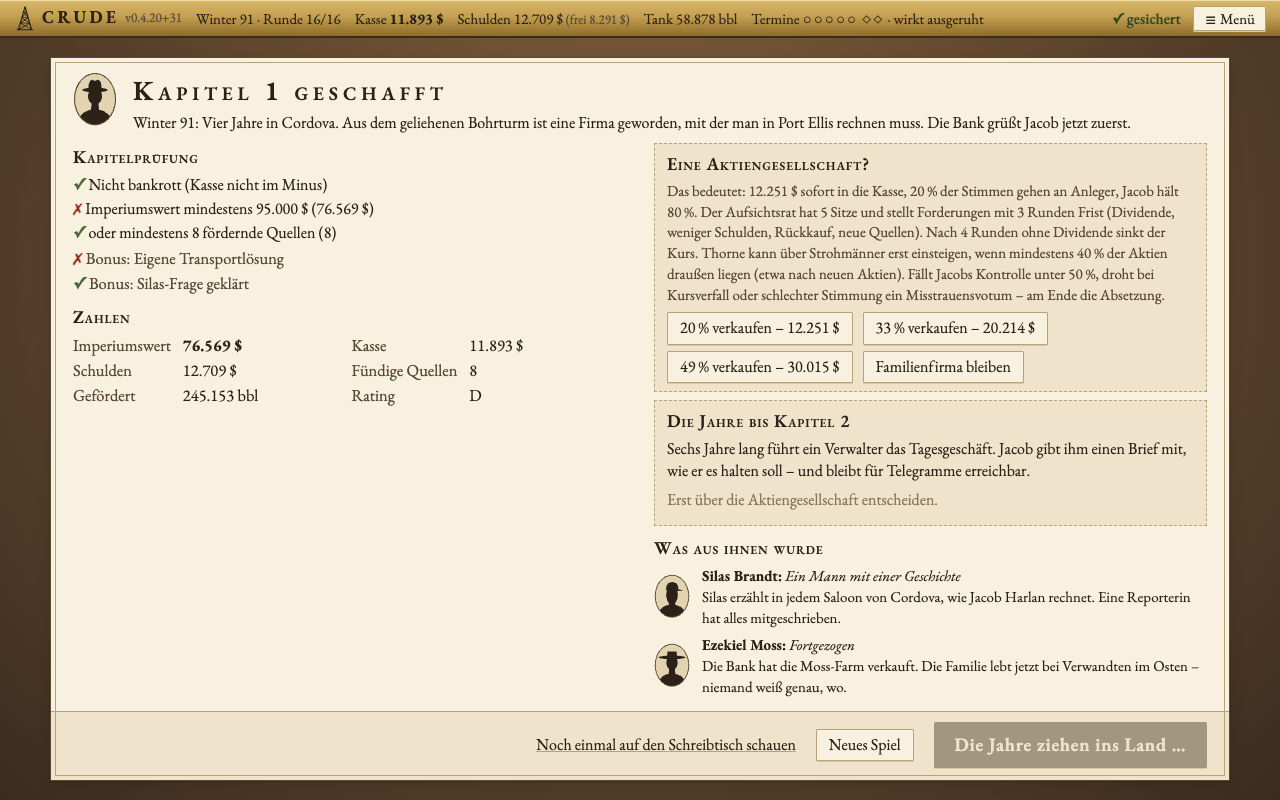
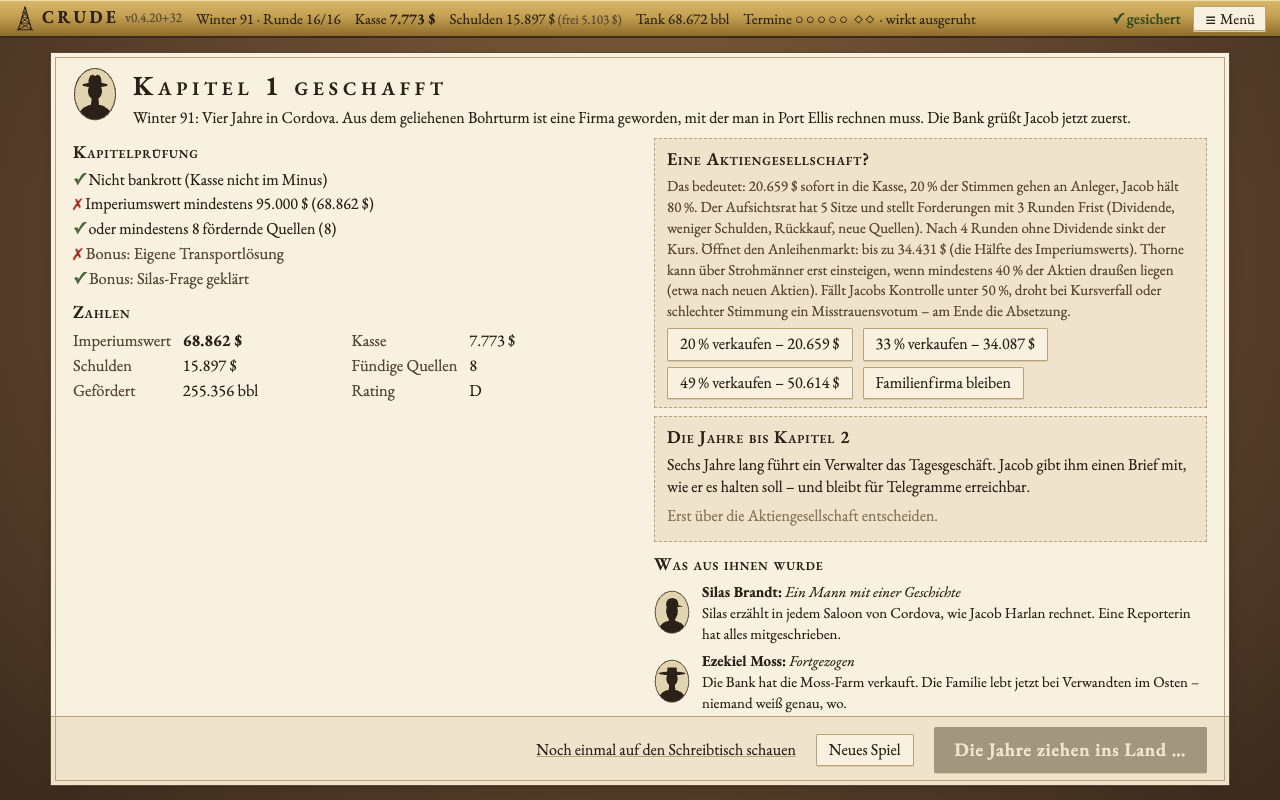
0.4.20+33 Börsengang mit Gegenseite: Version, Projektstand, Bildschirmfotos

diff --git a/CLAUDE.md b/CLAUDE.md
@@ -65,6 +65,7 @@
 - 0.4.20+30 Spielspaß-Durchgang Kapitel 2 (Befunde eines Lese-Agenten, je System: Entscheidung? erklärt? Folge sichtbar?): Fernleitung zeigt den Nutzen („spart … $ je Runde, bezahlt in … Runden“, `trunkSavings`), Börsengang-Brief nennt je Wahl die Folgen (`ipoConsequenceText`: Erlös, Ratssitze, Dividende, Thorne ab 40 % Fremdanteil, Misstrauensvotum unter 50 %), Aufsichtsrat zeigt Treue-Folgen (`demandHints`) und einen Knopf „Rat umstimmen“ statt sieben, Diplomatie-Angebote mit $ je Runde und Spur-Hinweis (`estimateOffer`), Forschung: je Kapitel eine Richtung (erste Förderung legt sie fest, Lizenzen fremder Richtungen × `research.licenseOffDirection` 1,5), Patente erreichbar (worldAt 18–25), Abschluss in der Zeitung (`research_patent`/`research_done`); Spielstand Format 26. Verwalter-Bericht trennt alte/neue Quellen, Rundgang K2 nennt 80.000 $ (Test gegen balance.yaml). Texte aus Fernleitung, Schattenbuch, Personal, Werkstatt in content/ (de/en). Messung (bot runner, Standard-Bot, je 200 Kampagnen, gleiche Seeds): Börsengang lohnt nie (Endwert K3 0 % 779k, 20 % 725k, 33 % 704k, 49 % 692k; Kapitelziel 2 bei 49 % −10 Punkte) – das Geld hilft in K2 nicht, Design-Frage offen (Vorschlag: Börsengang öffnet Türen, z. B. Anleihen/Bankrahmen/Fremdkapital); Personal und Forschung neutral (±1–2 % Endwert; Bots nutzen sie nur passiv).
 - 0.4.20+31 Bots kaufen Felder (`buyoutTurn` in bots.ts, `bots.buyout` je Charakter: Angebot offer × Bullards Preis für die Ranch mit dem besten Ölfluss je Dollar, nur bis maxPrice × Ölfluss und mit Reserve; Zeile „Feldkauf“ im Bot-Bericht). k24 (PC, 1.000): gierig 0,91 Käufe je Partie, ausgewogen 0,14, betrügerisch 0,11, vorsichtig keine; Kapitel 1 alle Zielwerte im Rahmen (Kapitelziel ausgewogen 58,5 %). Kampagne gegenüber k23 (ohne Startquelle/Feldkauf): Kapitelziel 2 68,6 → 55,9 %, Kapitelziel 3 50,7 → 44,5 % – laut bot runner vor allem die Startquelle (schwächerer K1-Start), nicht der Feldkauf; Trennlauf auf 047fc19 beauftragt.
 - 0.4.20+32 Deals im Adressbuch (Etappe 2): elf neue Karten in Kapitel 1 (`src/sim/deals.ts`, Zahlen `deals` in balance.yaml, Zustand `state.deals`, Spielstand Format 27). Bank (neue Stelle): Zins nachverhandeln (Chance nach Rating, −1 Punkt auf alle Bankkredite), Zinsen stunden (Zinsen × 1,5 auf die Schuld), Bohrturm verpfänden (+2.500 $ Rahmen, nach versäumter Zahlung gehört er der Bank → Mietturm). Eisenbahn: Festtarif (eingefroren, mind. 4.000 bbl/Runde per Bahn), Frachtkontingent (vorab, 20 % billiger, 6 Runden). Crane: Vorschuss (85 % sofort, Lieferung in 2 Runden, sonst Rest × 1,3). Händler: Großabnahme (+5.000 bbl diese Runde). Andere Ölleute: Turm verleihen (Miete, 20 % beschädigt). Grundbesitzer: Förderzins nachverhandeln (Einmalzahlung, −3 Punkte). Zeitung: Interview (Ruf bei den Wildcattern ±0,06). Sheriff (neue Stelle): Wache gegen die neuen Öldiebe (Kapitel 1, 6 % je Runde ab 3.000 bbl, 20 % weg). Terminverkauf bei Crane und Eilfuhre gestrichen (doppelt zum Liefervertrag bzw. Bahn nie voll). Adressbuch zeigt „Läuft:“ (`dealsRunning`). Bots: Flags guard/bank/quota/advance/royalty/interview in `bots.plans`. `HANDLERS` in plans.ts jetzt `handlers()` (Zirkel-Import). Bot-Läufe Kapitel 1 (1.000): alle Zielwerte im Rahmen; ausgewogen Ø 116k → 110k $, Kapitelziel 58,5 → 55,1 % (Öldiebe; wie oft die Bots welche Deals nutzen und ob sie sich lohnen, ist noch nicht gemessen). Als Nächstes Etappe 3: Telefon ab Kapitel 2.
+- 0.4.20+33 Börsengang mit Gegenseite (Messung: lohnte nie): Anleger zahlen 1,5 × Wert je Anteil (`chapter.ipo.priceFactor`, vorher 0,8); neue Anleihen nur für die Aktiengesellschaft (`canIssueBonds`, Familienfirma nur Bankkredit; alte Anleihen laufen weiter), Börsengang-Brief nennt den Anleihenrahmen (`{anleihen}`); drei Kapitel-2-Ereignisse nur für die AG (`content/events/k2-ag-tueren.yaml`, Bedingung `minPublicShare`): Projektfinanzierung (Vandermeer), Marine-Liefervertrag (Kommandant Brandt), Thornes Strohmänner. Kapitelende zeigt die Folgen nur für die Wahl unter der Maus (scrollt nicht mehr, Bild 13b).
 - Bot-Läufe: `npm run bots` (schreibt docs/botlaeufe.md).
 - Tester-Build: `npm run release` → `release/crude-<version>.zip` (index.html im Wurzelverzeichnis, relative Pfade; release/ nicht committen). Feedback-Link in `content/tester.yaml` (leer = kein Knopf). Debug-Bereich im Build nur mit `?debug=1`.
 - Starten: `npm run dev`; Debug-Ansicht über `?seed=abc&debug=1` in der Adresse (mit Seed startet immer eine frische Welt, ohne Seed der gespeicherte Stand).
